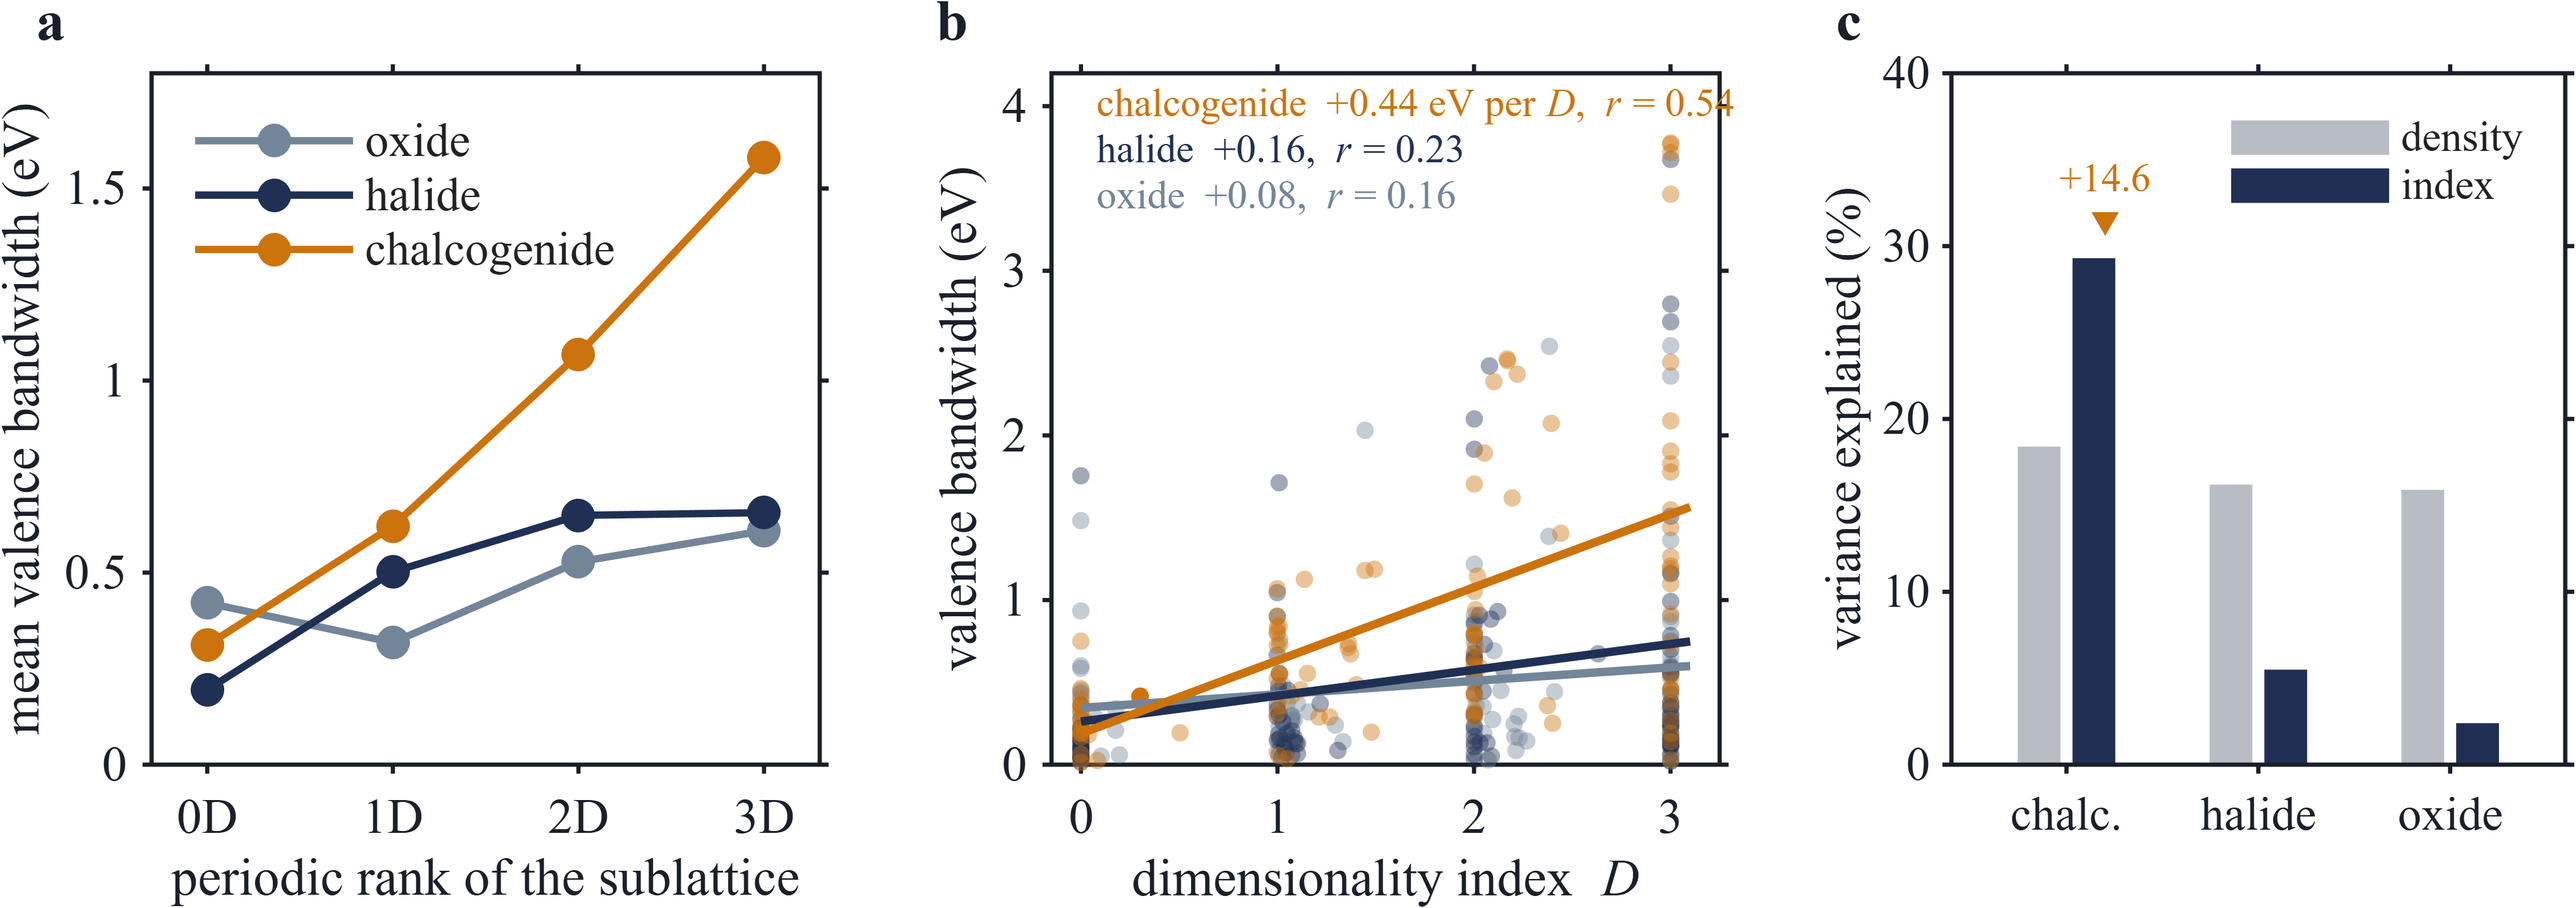
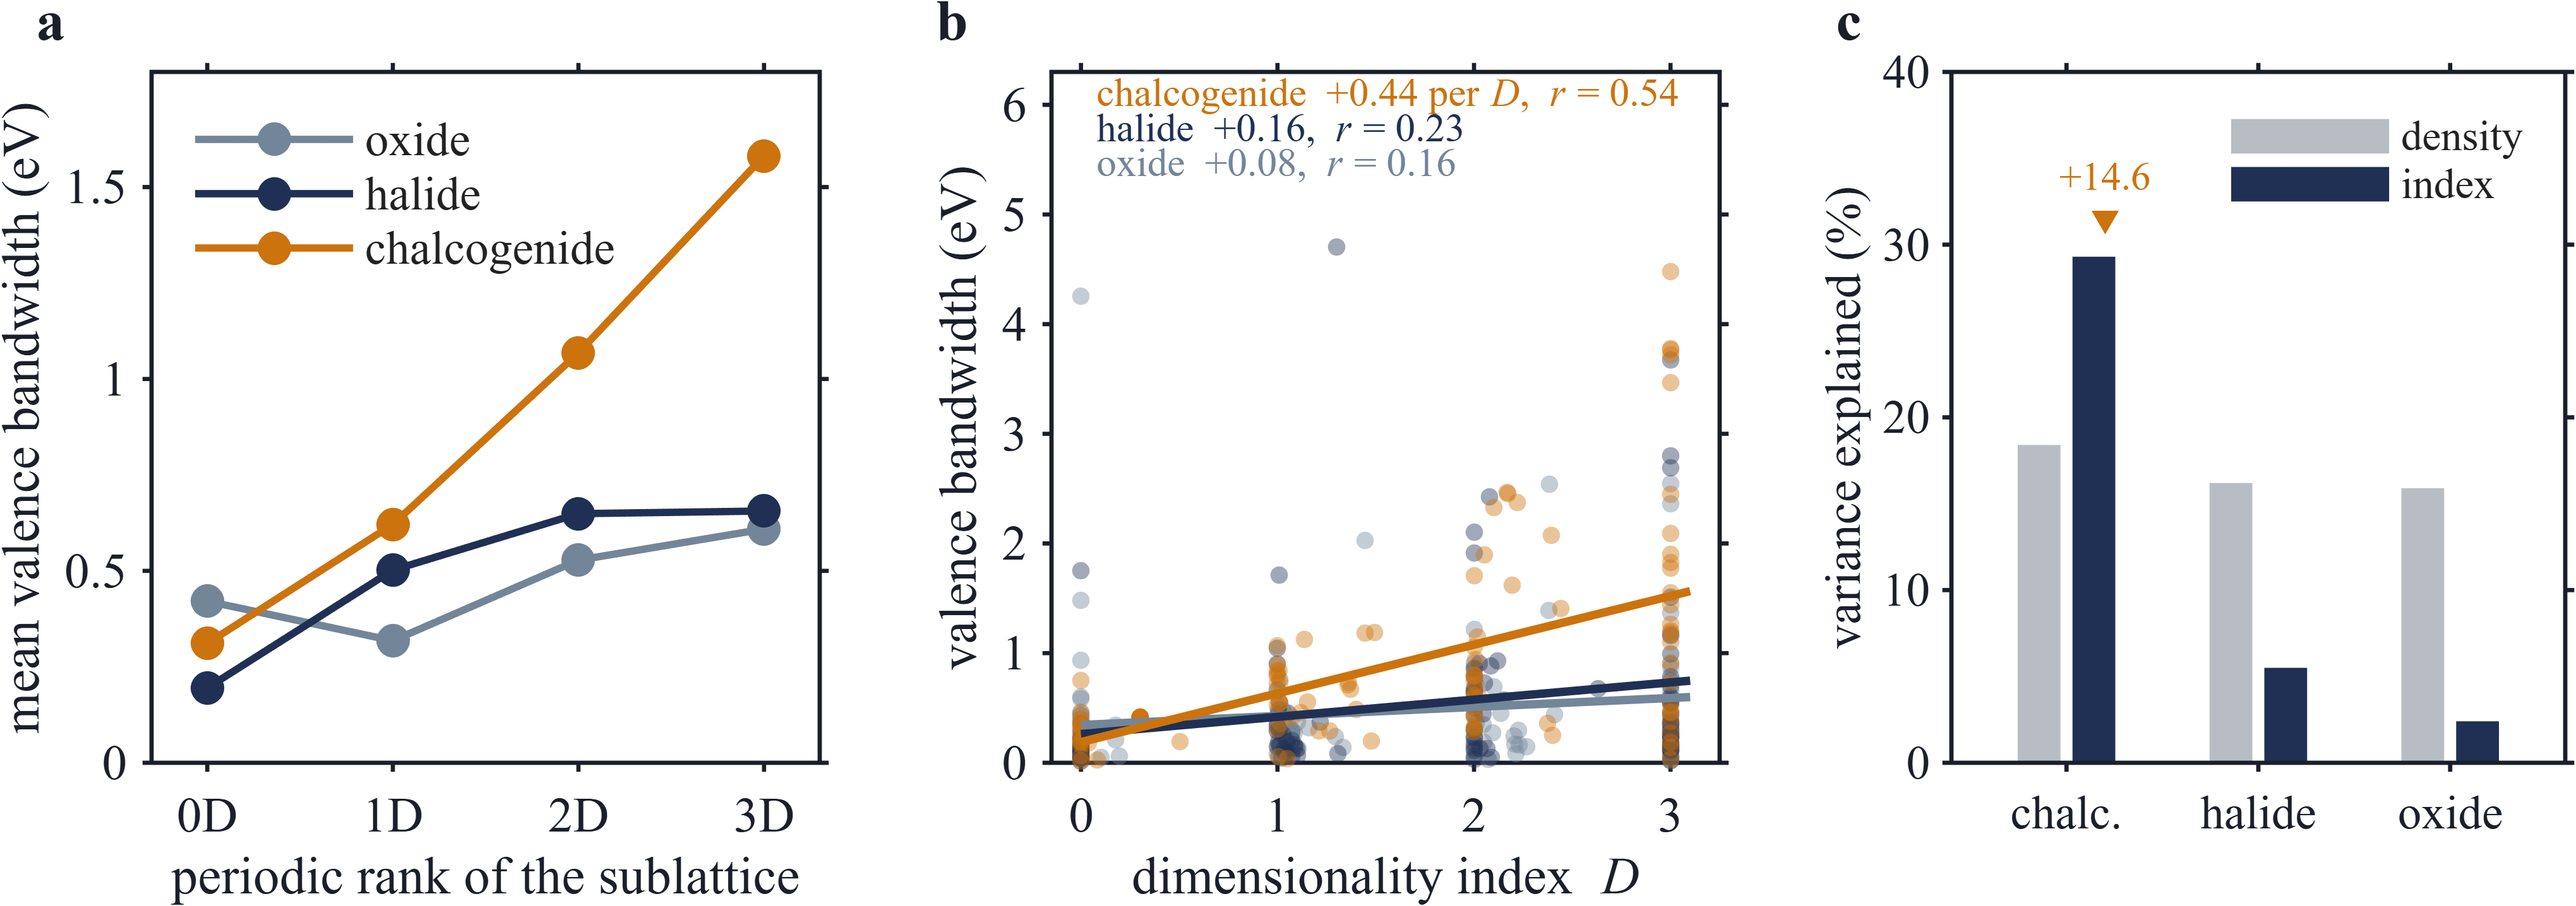
Figures 1 and 4 redrawn; partial-occupancy count corrected
Figure 1: panel b's crop widened so no atom is cut at its edges
(npj_panels.json frame_box). Figure 4b: the y axis now reaches 6.3 eV, so every
structure is on scale, including the three metallic ones above 4.2 eV. README:
187 disordered structures in the sample have a site below half occupancy; 181 of
them can still be indexed without it, and none changes rank.

diff --git a/README.md b/README.md
@@ -173,7 +173,8 @@ Cells containing more than 90 metal centres are declined rather than evaluated. 
 occupancies are read as each site's majority species, without enumerating orderings;
 37 per cent of indexed structures carry them (95 per cent interval 34 to 40, from a
 random sample of 1,000; partial_occupancy_sample.py), and removing every site below half
-occupancy from the 181 of them that have one changes no integer rank
+occupancy from the 187 of them that have one changes no integer rank in the 181
+that can still be indexed
 (partial_occupancy_test.py); the electronic-structure sample is
 restricted to ordered structures for that reason. The index describes the sublattice it
 is given and makes no claim about the rest of the structure.
